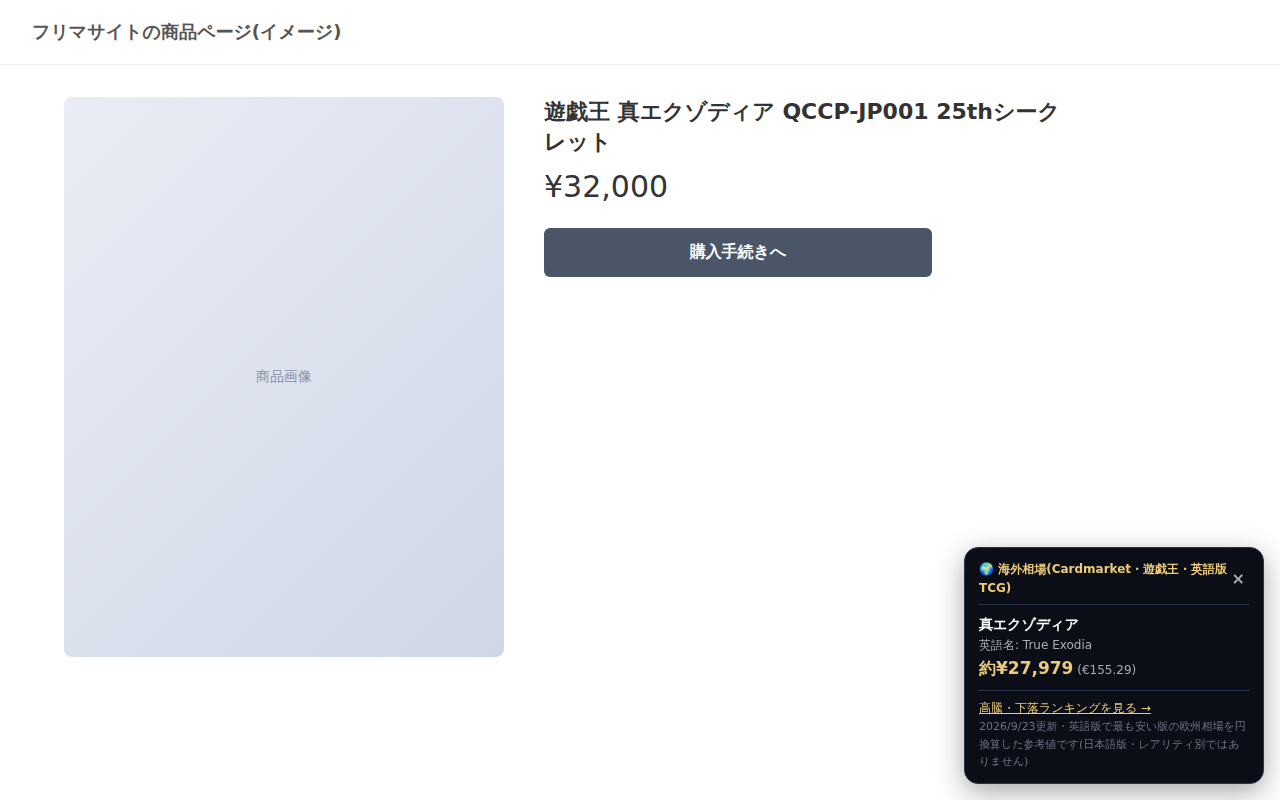
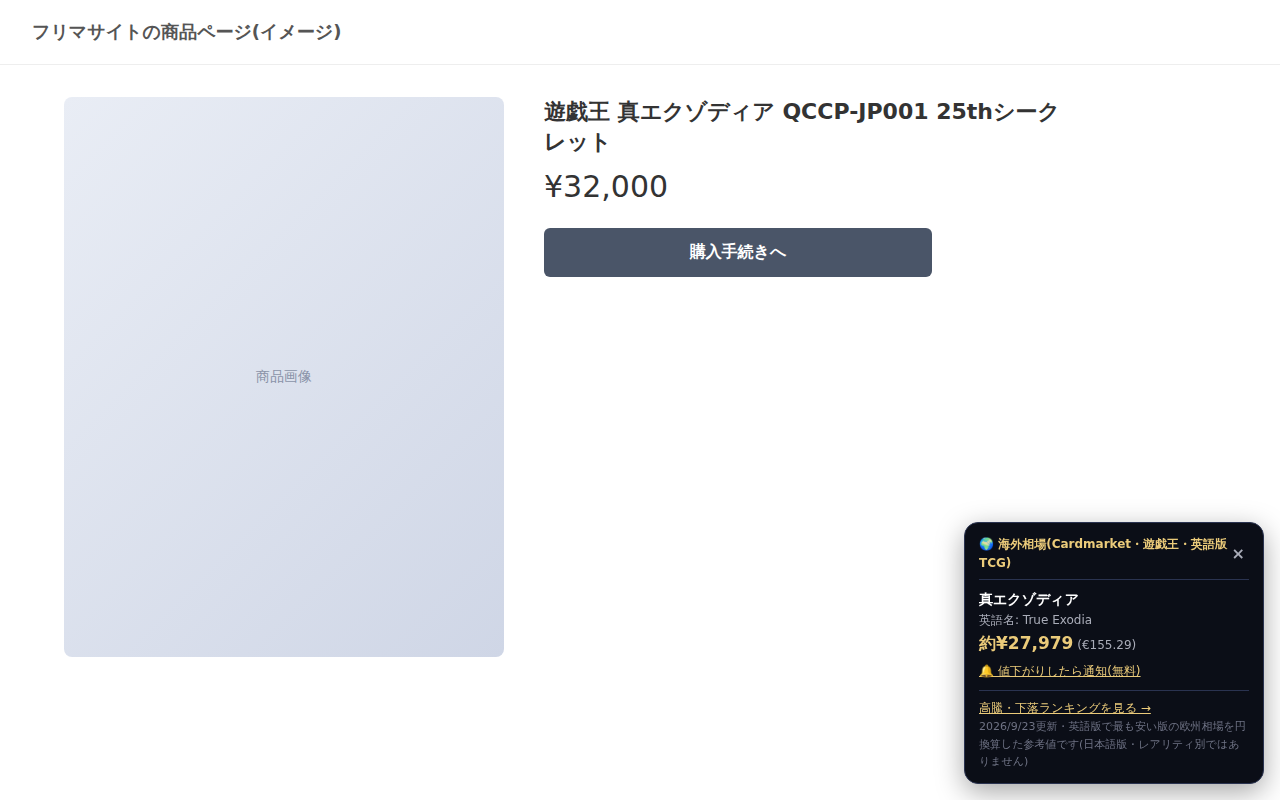
feat: トレカ拡張のバッジから値下がり通知へ案内する(拡張 0.3.2)
1枚に特定できたカードには「値下がりしたら通知(無料)」リンクを付け、通知サービスの登録ページを
?card=<カードの識別子> で開く。登録ページはそのカードを検索結果に出し、ゲームも切り替える。
特定できない出品では、カードを選ばずに登録ページへ案内する。
識別子は notify の buildCards と同じ規則で、拡張のテストで3ゲームの全カードを照合する。
説明文・プライバシーポリシー・AMO の審査メモにリンクの扱いを追記し、スクリーンショットを撮り直した。

Claude-Session: https://claude.ai/code/session_01Js1DnNdDAaC7aztZerjMmW

Changed region(s): [[0.75, 0.625, 1.0, 0.8438]]

diff --git a/extension/src/content.js b/extension/src/content.js
@@ -6,6 +6,16 @@
   const M = globalThis.PokecaMatcher;
   const HOST_ID = "pokeca-kaigai-checker";
   const MAX_CANDIDATES = 3;
+  // 値下がり通知(無料・Discord に届く)の登録ページ。?card= でカードを選んだ状態で開く
+  const NOTIFY_URL = "https://toreca-notify.iq87jun.workers.dev/";
+  const notifyUrl = (cardKey) => {
+    const u = new URL(NOTIFY_URL);
+    if (cardKey) u.searchParams.set("card", cardKey);
+    u.searchParams.set("utm_source", "extension");
+    return u.href;
+  };
+  const notifyLink = (cardKey, text) =>
+    el("a", { class: "notify", href: notifyUrl(cardKey), target: "_blank", rel: "noopener" }, text);
 
   let indexes = null;
   let lastKey = "";
@@ -61,6 +71,11 @@
           " ",
           changeNode(top),
         ),
+        el(
+          "div",
+          { class: "act" },
+          notifyLink(M.notifyKey(index, top), "🔔 値下がりしたら通知(無料)"),
+        ),
       );
     } else {
       // 同名カードが複数ある場合は価格幅と上位候補を出す(型番を書かない出品が多いため)
@@ -110,6 +125,8 @@
       .up { color: #5FD08A; } .down { color: #F07A7A; }
       ul { margin: 4px 0 0; padding-left: 16px; color: #A9ACB8; font-size: 12px; }
       a { color: #EBCB7A; font-size: 12px; }
+      .act { margin-top: 4px; }
+      .foot a { display: block; }
       .foot { border-top: 1px solid #2A3350; padding-top: 8px; font-size: 11px; color: #6E7284; }
     `;
     const close = el("button", { title: "閉じる", "aria-label": "閉じる" }, "×");
@@ -123,6 +140,7 @@
       ? el(
           "a",
           {
+            class: "rank",
             href: `${index.siteUrl}?utm_source=extension&utm_medium=badge`,
             target: "_blank",
             rel: "noopener",
@@ -135,7 +153,14 @@
       { class: "card", role: "complementary", "aria-label": "トレカ海外相場" },
       el("div", { class: "head" }, `🌍 海外相場(${index.source}・${index.label})`, close),
       ...hits.map((hit) => hitNode(index, hit)),
-      el("div", { class: "foot" }, link, el("div", {}, `${updated}更新・${index.disclaimer}`)),
+      el(
+        "div",
+        { class: "foot" },
+        link,
+        // 1枚に絞れなかった時は、カードを選ばずに登録ページへ(ページで検索して選ぶ)
+        hits.some((h) => h.exact) ? "" : notifyLink(null, "🔔 値下がり通知を設定(無料)"),
+        el("div", {}, `${updated}更新・${index.disclaimer}`),
+      ),
     );
     root.append(style, card);
     document.documentElement.append(host);

diff --git a/notify/public/app.js b/notify/public/app.js
@@ -16,6 +16,16 @@ let key = null;
 let prices = null; // loadPrices() の結果
 let me = null; // GET /api/me の結果
 
+// 拡張の「値下がり通知を設定」リンク(?card=<カードの識別子>)から来た時、そのカードを検索結果の先頭に出す
+const params = new URLSearchParams(location.search);
+let pickedKey = params.get("card");
+if (pickedKey) {
+  params.delete("card");
+  const rest = params.toString();
+  history.replaceState(null, "", location.pathname + (rest ? `?${rest}` : "") + location.hash);
+}
+const pickedCard = () => (pickedKey && prices?.cards.get(pickedKey)) || null;
+
 function readKey() {
   const m = /[#&]k=([\w-]+)/.exec(location.hash);
   if (m) {
@@ -191,7 +201,9 @@ function renderResults() {
   $("game-note").textContent = GAME_NOTES[game];
   if (!prices) return;
   const q = $("query").value;
-  const found = searchCards(prices.cards, q, { game, limit: 20 });
+  let found = searchCards(prices.cards, q, { game, limit: 20 });
+  const picked = pickedCard();
+  if (picked && !q.trim() && picked.game === game) found = [picked];
   if (q.trim() && found.length === 0) {
     list.append(el("li", { class: "hint" }, "見つかりませんでした"));
     return;
@@ -259,7 +271,10 @@ $("signup-form").addEventListener("submit", async (e) => {
   }
 });
 
-$("query").addEventListener("input", renderResults);
+$("query").addEventListener("input", () => {
+  pickedKey = null; // 自分で検索し始めたら、拡張から選んだカードの表示はやめる
+  renderResults();
+});
 for (const r of document.querySelectorAll("input[name=game]")) {
   r.addEventListener("change", renderResults);
 }
@@ -307,6 +322,18 @@ renderResults();
 loadPrices()
   .then((p) => {
     prices = p;
+    const picked = pickedCard();
+    if (picked) {
+      const radio = document.querySelector(`input[name=game][value=${picked.game}]`);
+      if (radio) radio.checked = true;
+      status(
+        key
+          ? `「${picked.label}」の目標額を決めて「通知」を押してください`
+          : `登録すると「${picked.label}」が値下がりした時に通知できます`,
+      );
+    } else if (pickedKey) {
+      pickedKey = null;
+    }
     if (me) renderWatches();
     renderResults();
   })

diff --git a/extension/test/notify-key.test.js b/extension/test/notify-key.test.js
@@ -1,0 +1,31 @@
+// バッジの「値下がり通知」リンクのカードの識別子が、通知サービス(notify/)の登録ページの識別子と一致すること。
+// 一致しないと、リンクから開いた登録ページでカードが選ばれない
+import { test } from "node:test";
+import assert from "node:assert/strict";
+import fs from "node:fs";
+import "../src/matcher.js";
+import { buildCards } from "../../notify/public/prices.js";
+
+const M = globalThis.PokecaMatcher;
+const read = (f) => JSON.parse(fs.readFileSync(new URL(`./fixtures/${f}`, import.meta.url)));
+
+for (const [file, game] of [
+  ["cards.json", "pokeca"],
+  ["yugioh.json", "yugioh"],
+  ["onepiece.json", "onepiece"],
+]) {
+  test(`${game}: 拡張の照合結果のカードは、すべて通知サービスの登録ページにある`, () => {
+    const data = read(file);
+    const index = M.buildIndex(data);
+    const notifyKeys = new Set(buildCards(game, data).map((c) => c.key));
+    const cards = new Set(
+      index.byCode ? [...index.byCode.values()].flat() : [...index.byName.values()].flat(),
+    );
+    assert.ok(cards.size > 0);
+    for (const card of cards) {
+      if (!(card.price > 0)) continue; // 価格の無いカードは通知サービスでも扱わない
+      const key = M.notifyKey(index, card);
+      assert.ok(notifyKeys.has(key), `${key} が登録ページに無い`);
+    }
+  });
+}

diff --git a/extension/src/matcher.js b/extension/src/matcher.js
@@ -241,6 +241,18 @@
   const change7d = (card) =>
     card.avg7 ? Math.round(((card.price - card.avg7) / card.avg7) * 1000) / 10 : null;
 
+  // 値下がり通知(notify/)に登録する時のカードの識別子。notify/public/prices.js の buildCards と同じ規則:
+  //   ポケカ pokeca:<セット>-<番号> / 遊戯王 yugioh:<英語名> / ワンピース onepiece:<カード番号>:<版>
+  function notifyKey(index, card) {
+    if (index.game === "pokeca") return `pokeca:${card.setId}-${card.localId}`;
+    if (index.game === "onepiece") return `onepiece:${card.localId}:${card.variant ?? "normal"}`;
+    if (index.game === "yugioh") {
+      const en = String(card.note ?? "").replace(/^"(.*)"$/, "$1");
+      return `yugioh:${en || card.name}`;
+    }
+    return null;
+  }
+
   globalThis.PokecaMatcher = {
     FORMAT_VERSION,
     normalize,
@@ -250,5 +262,6 @@
     match,
     toJpy,
     change7d,
+    notifyKey,
   };
 })();

diff --git a/toreca/public/extension-privacy.html b/toreca/public/extension-privacy.html
@@ -41,6 +41,9 @@
   <h2>リンク先について</h2>
   <p>表示内の「ランキングを見る」リンクから当サイトに移動した場合は、
   当サイトのアクセス解析(Google Analytics)の対象となります。</p>
+  <p>「値下がりしたら通知」リンクを押した場合に限り、そのカードの識別子(例: pokeca:M4-120)をリンク先の
+  「トレカ値下がり通知」(toreca-notify.iq87jun.workers.dev)のページに渡します。商品名・閲覧したURLは渡しません。
+  通知サービスの利用は任意で、登録した内容はそのサービスで管理されます。</p>
 
   <h2>お問い合わせ</h2>
   <p>Chrome ウェブストアの本拡張機能ページの「サポート」タブからご連絡ください。</p>

diff --git a/notify/README.md b/notify/README.md
@@ -88,8 +88,13 @@ Actions の「Run workflow」で「相場データが更新されていなくて
 テストモードの鍵(`sk_test_…` と、テストモードで作った価格・Webhook)で先に一通り試し、
 カード番号 `4242 4242 4242 4242` で申し込み → 解約まで確認してから本番の鍵に差し替えると安全。
 
+## 拡張からの案内
+
+トレカ海外相場チェッカー(0.3.2〜)のバッジの「値下がりしたら通知」リンクは `/?card=<カードの識別子>` を開き、
+そのカードを検索結果に出す。識別子の規則は `public/prices.js` の `buildCards` と拡張の `matcher.js` の
+`notifyKey` で揃えている(拡張の `test/notify-key.test.js` で照合)。
+
 ## 今後
 
 - LINE 版: LINE 公式アカウント(Messaging API)。LINE Notify は2025年3月に終了したため使えない
-- 拡張のバッジに「値下がり通知を設定」リンク(カードを選んだ状態で登録ページを開く)
 - 独自ドメイン(例: notify.pokeca-kaigai.com)。pokeca-kaigai.com の DNS を Cloudflare に移す必要がある
